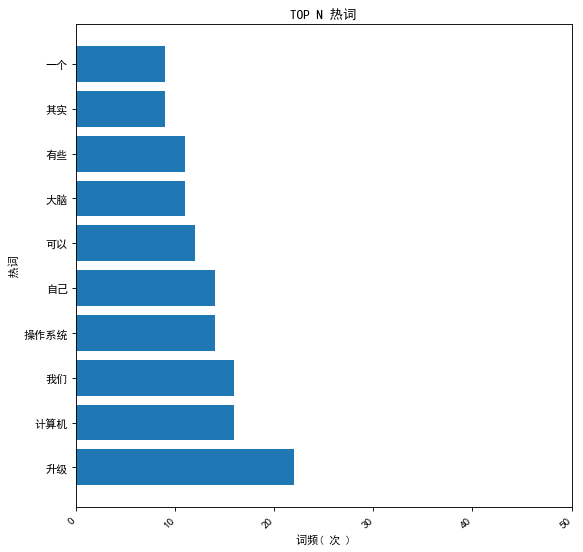
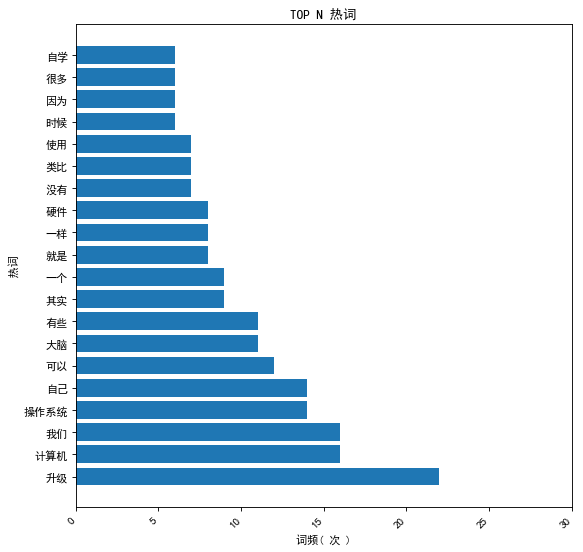
update  d13 main.py
补充调入函数 requests 和 PyQuery

diff --git a/exercises/1901050035/d13/main.py b/exercises/1901050035/d13/main.py
@@ -1,6 +1,8 @@
 #Selfteaching day13homework ,wxpy -chart practice.3!
 
 from mymodule import stats_word as counts  #import module stats_word.py function
+import requests
+from pyquery import PyQuery
 from wxpy import *   
 import numpy as np
 import matplotlib.pyplot as plt
@@ -17,8 +19,8 @@ print（my_friend）
     
 #自动回复
 @bot.register(my_friend)
-   def auto_reply_my_friend(msg):
-    return 'received:{}({})'.format(msg.text,msg.type)
+def auto_reply_my_friend(msg):
+   return 'received:{}({})'.format(msg.text,msg.type)
 
 # 发送文本和图片给好友
 my_friend.send('Hello 今天心情不错')
@@ -41,7 +43,7 @@ def auto_reply(msg):
     import matplotlib.pyplot as plt             #调用matplotlib 库函数
     from matplotlib.ticker import FuncFormatter
     
-    l1=counts.stats_text_cn(content,count=10)      ##统计微信消息前10位热词
+    l1=counts.stats_text_cn(content,count=20)      ##统计微信消息前10位热词
     data=dict(l1)                                  #将统计结果热词数据字典化
     group_data = list(data.values())
     group_names = list(data.keys())
@@ -53,12 +55,12 @@ def auto_reply(msg):
     ax.barh(group_names, group_data)
     labels = ax.get_xticklabels()
     plt.setp(labels, rotation=45, horizontalalignment='right')
-    ax.set(xlim=[0, 50], xlabel='词频( 次 )', ylabel=' 热词 ',title='TOP N 热词')
+    ax.set(xlim=[0, 30], xlabel='词频( 次 )', ylabel=' 热词 ',title='TOP N 热词')
     plt.show()
     fig.savefig('top_n.png', transparent=False, dpi=80, bbox_inches="tight")  # 将统计图表存成png格式
     
     my_friend.send_image('top_n.png')   #发送统计结果图片
-    result = counts.stats_text_cn(content,count=10) #统计热词
+    result = l1 #统计热词
 
     return result #将Top n 热词自动回复给好友 
 
